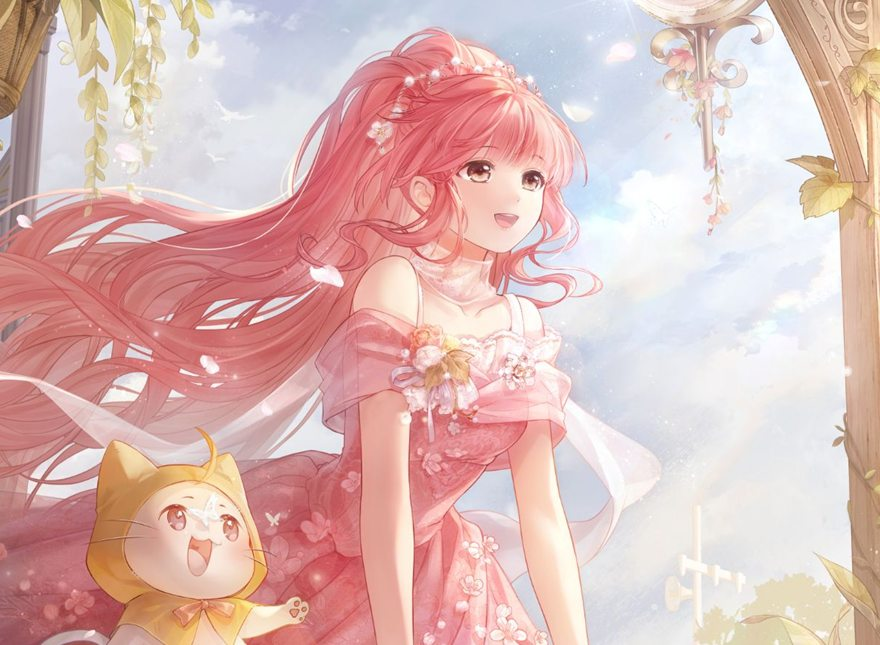
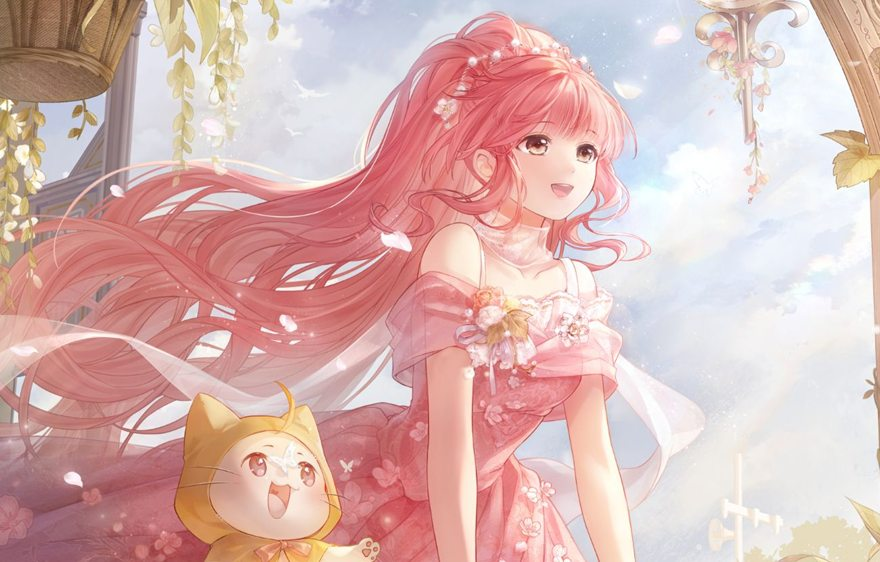
Header: dịch khung sang phải, thấp hơn, vẫn đủ Nikki và Mumu

diff --git a/index.html b/index.html
@@ -63,7 +63,7 @@ a{color:inherit}
 
 /* ---------- Hero ---------- */
 .hero{position:relative}
-.hero-img{width:100%;height:auto;aspect-ratio:880/645;object-fit:cover}
+.hero-img{width:100%;height:auto;aspect-ratio:880/562;object-fit:cover}
 .hero:after{content:"";position:absolute;left:0;right:0;bottom:0;height:40px;background:linear-gradient(180deg,transparent,var(--bg))}
 .brand{position:absolute;top:10px;left:10px;z-index:2;display:flex;align-items:center;gap:6px}
 .app-icon{width:42px;height:42px;border-radius:11px;box-shadow:0 3px 10px -3px rgba(120,30,70,.45),0 0 0 2px #fff}
@@ -201,7 +201,7 @@ footer p{margin:0 0 4px;font-size:13px;line-height:1.6}
 <div id="loader" role="status" aria-live="polite"><img src="assets/loading.gif" alt="" width="1000" height="1000"><p>Đang tải</p></div>
 <div class="app">
   <section class="hero">
-    <img class="hero-img" src="assets/hero-nikki.jpg" alt="" width="880" height="645">
+    <img class="hero-img" src="assets/hero-nikki.jpg" alt="" width="880" height="562">
     <div class="brand"><img class="app-icon" src="assets/app-icon.webp" alt="Biểu tượng ứng dụng Ngôi Sao Thời Trang" width="1080" height="1080"><img class="logo" src="assets/logo-pink.png" alt="Nikki: Ngôi Sao Thời Trang"></div>
   </section>
   <div class="intro">
